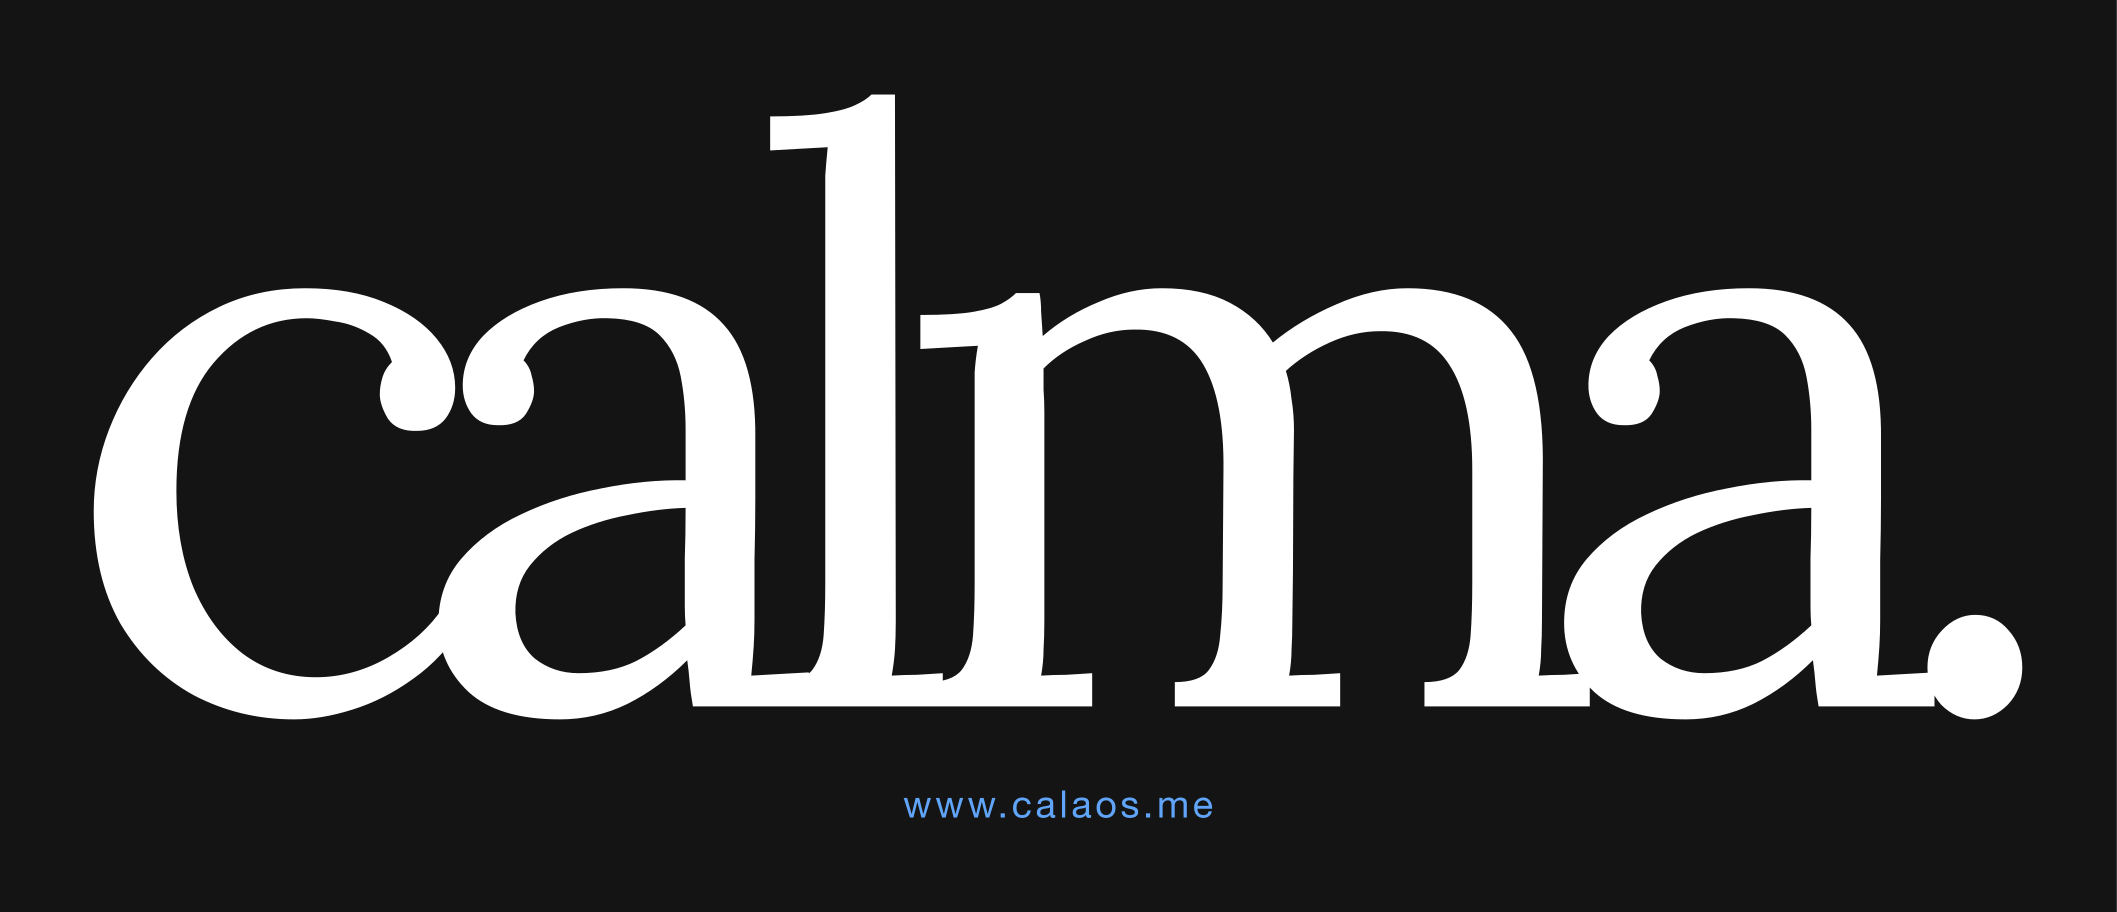
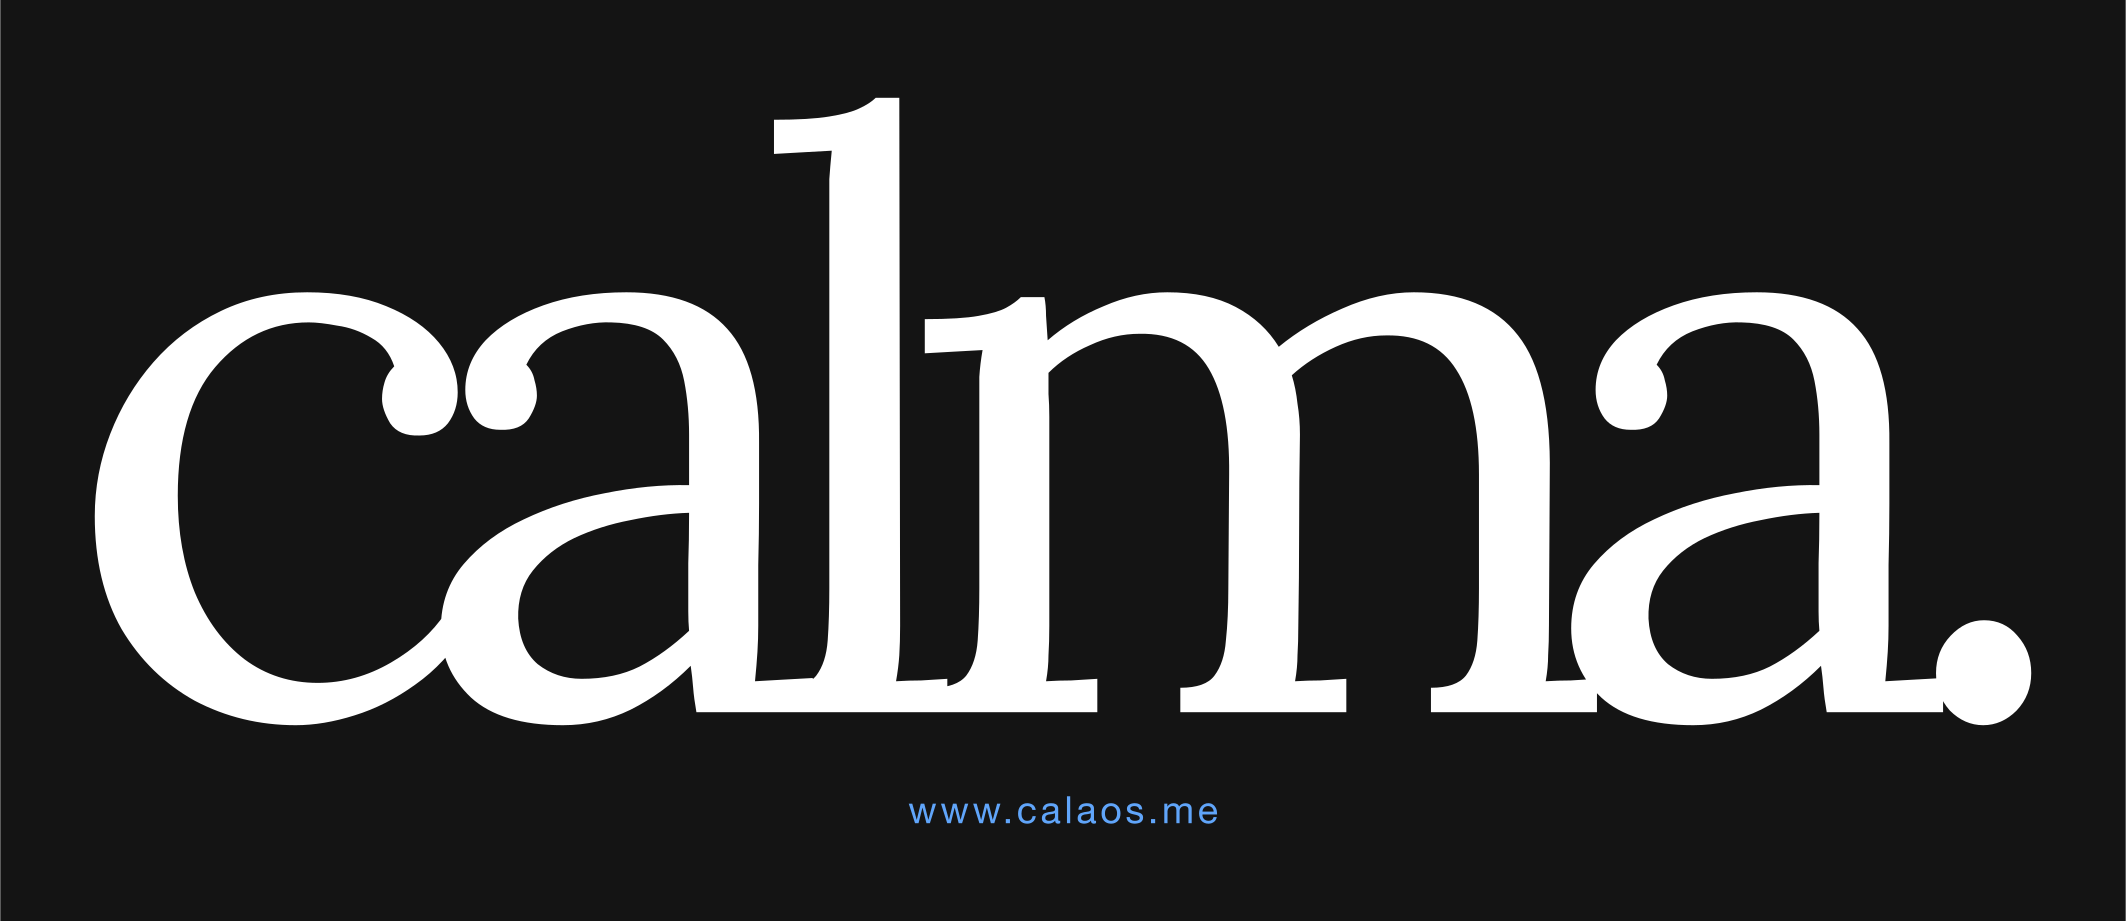
sticker: round width to 8.6cm, snap heights to whole mm for StickerApp
StickerApp accepts sizes only in cm with one decimal. Cut width now 86mm
(8.6cm), heights ceil'd to whole mm (calma 3.5, chaos 3.6, calaos 3.0cm);
wordmark scaled uniformly and re-centered — no distortion.

Changed region(s): [[0.9976, 0.0, 1.0, 1.0], [0.4053, 0.8596, 0.5923, 0.9211]]

diff --git a/marketing/sticker/README.md b/marketing/sticker/README.md
@@ -8,18 +8,21 @@ maximal ausgefüllt wird. Scharfe Ecken, Finish **matt**.
 ## Versionen (in [`versions/`](versions/))
 | # | Motiv | Endgröße (Schnitt) | Datei inkl. 2 mm Beschnitt | Print-PNG |
 | --- | --- | --- | --- | --- |
-| 1 | **calma.** + `www.calaos.me` | 85,6 × 34,6 mm | 89,6 × 38,6 mm | `1-calma_print_600dpi.png` (2117 × 912) |
-| 2 | **chaos.** + `www.calaos.me` | 85,6 × 35,0 mm | 89,6 × 39,0 mm | `2-chaos_print_600dpi.png` (2117 × 920) |
-| 3 | **calaos.** (nur Logo) | 85,6 × 29,8 mm | 89,6 × 33,8 mm | `3-calaos_print_600dpi.png` (2117 × 799) |
+| 1 | **calma.** + `www.calaos.me` | 86 × 35 mm = **8,6 × 3,5 cm** | 90 × 39 mm | `1-calma_print_600dpi.png` (2126 × 921) |
+| 2 | **chaos.** + `www.calaos.me` | 86 × 36 mm = **8,6 × 3,6 cm** | 90 × 40 mm | `2-chaos_print_600dpi.png` (2126 × 945) |
+| 3 | **calaos.** (nur Logo) | 86 × 30 mm = **8,6 × 3,0 cm** | 90 × 34 mm | `3-calaos_print_600dpi.png` (2126 × 803) |
 
-Größe pro Version über `cutW` im Skript steuerbar (Default 85,6 mm).
+Alle Maße liegen auf ganzen Millimetern → im StickerApp-Konfigurator exakt als **cm mit
+einer Nachkommastelle** eingebbar (Breite einheitlich **8,6 cm**). Breite über `cutW` im Skript
+steuerbar (Default 86 mm); die Höhe wird je Version auf ganze mm aufgerundet, das Logo bleibt
+dabei zentriert und unverzerrt.
 
 Je Version drei Dateien: `*.svg` (Vektor-Master), `*_print_600dpi.png` (Upload),
 `*_proof.png` (Kontrolle mit Hilfslinien: magenta = Schnitt, cyan = Sicherheitsbereich).
 
 ## Bei StickerApp bestellen (je Version)
 1. Produkt **Rechteckige Sticker** (Custom / Rectangle), **scharfe Ecken**.
-2. **Größe** = Endgröße der jeweiligen Version (z. B. Version 3: 85,6 × 29,8 mm).
+2. **Größe** = Endgröße der jeweiligen Version in cm (z. B. Version 1: **8,6 × 3,5 cm**).
 3. **Material/Finish: Matt** (weißes Vinyl).
 4. Die passende `*_print_600dpi.png` hochladen.
 5. **2 mm Beschnitt ist in der Datei enthalten** — nicht doppelt anlegen, Motiv 1 : 1 platzieren.
